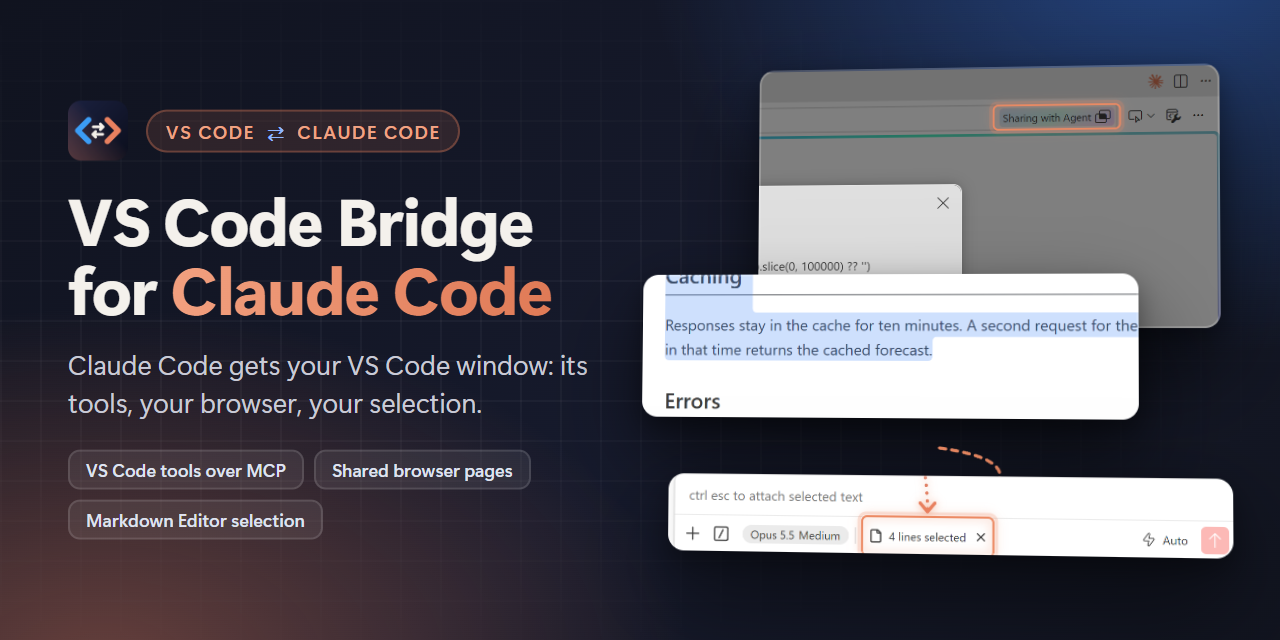
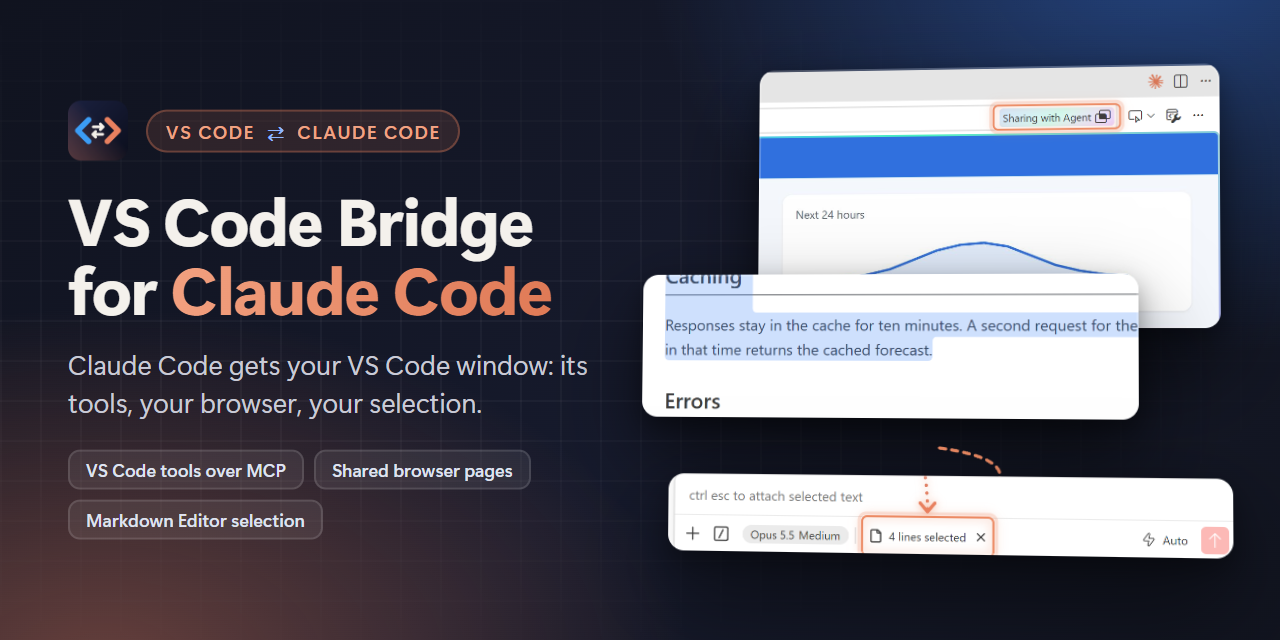
Enable the proposed API in the screenshot instance
Without it the bridge's read of a shared page's selection raised a confirmation dialog over the browser shot.

Changed region(s): [[0.5938, 0.0938, 0.9688, 0.5312]]

diff --git a/scripts/generate-screenshots.ts b/scripts/generate-screenshots.ts
@@ -227,6 +227,7 @@ const app = await _electron.launch({
 		'--skip-welcome',
 		'--skip-release-notes',
 		'--new-window',
+		'--enable-proposed-api=klaster1.vscode-bridge-for-claude-code', // Without it the bridge's read of a shared page's selection raises a confirmation dialog over the shot.
 		'--force-device-scale-factor=2', // Same pixels on every display, sharp when GitHub scales the image down.
 		// The windows sit off-screen (below). Chromium would stop painting a window it counts as hidden.
 		'--disable-backgrounding-occluded-windows',
